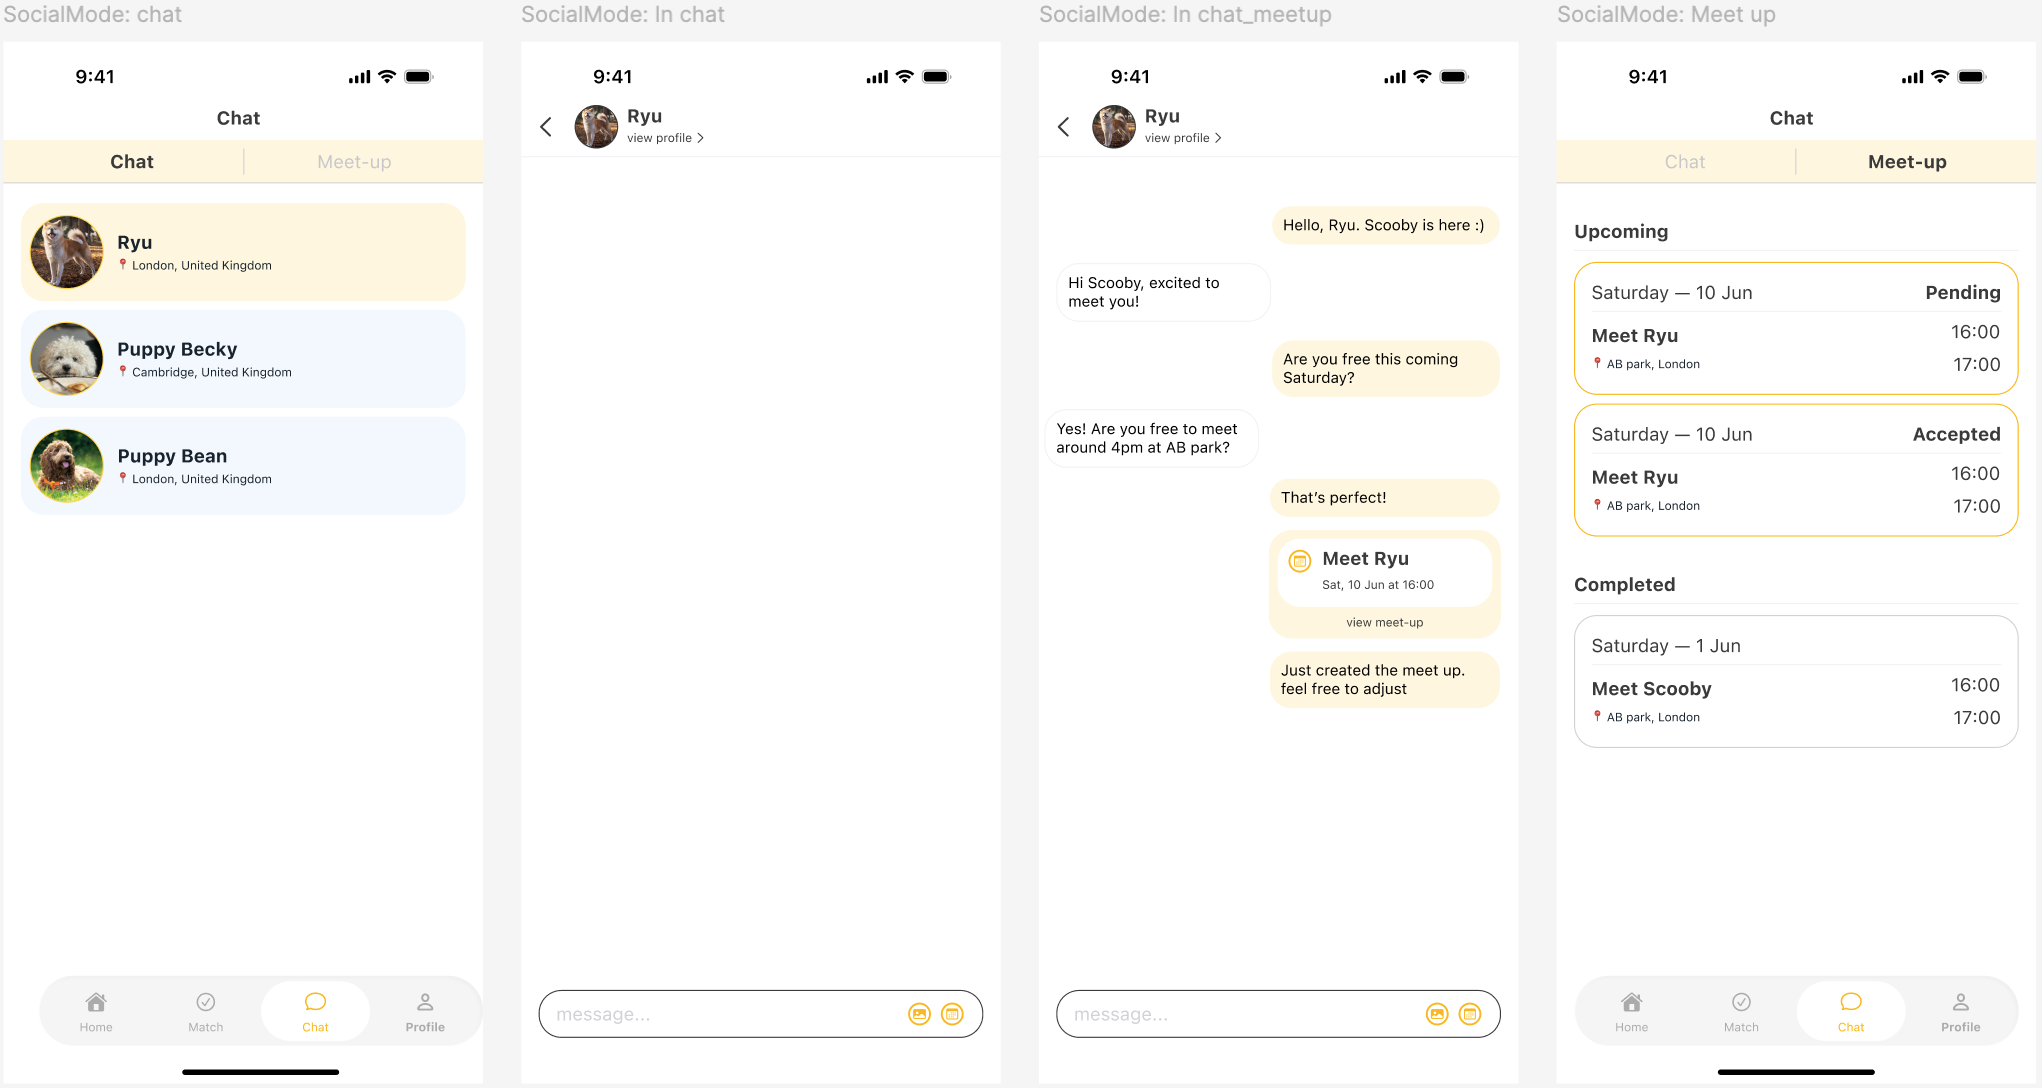
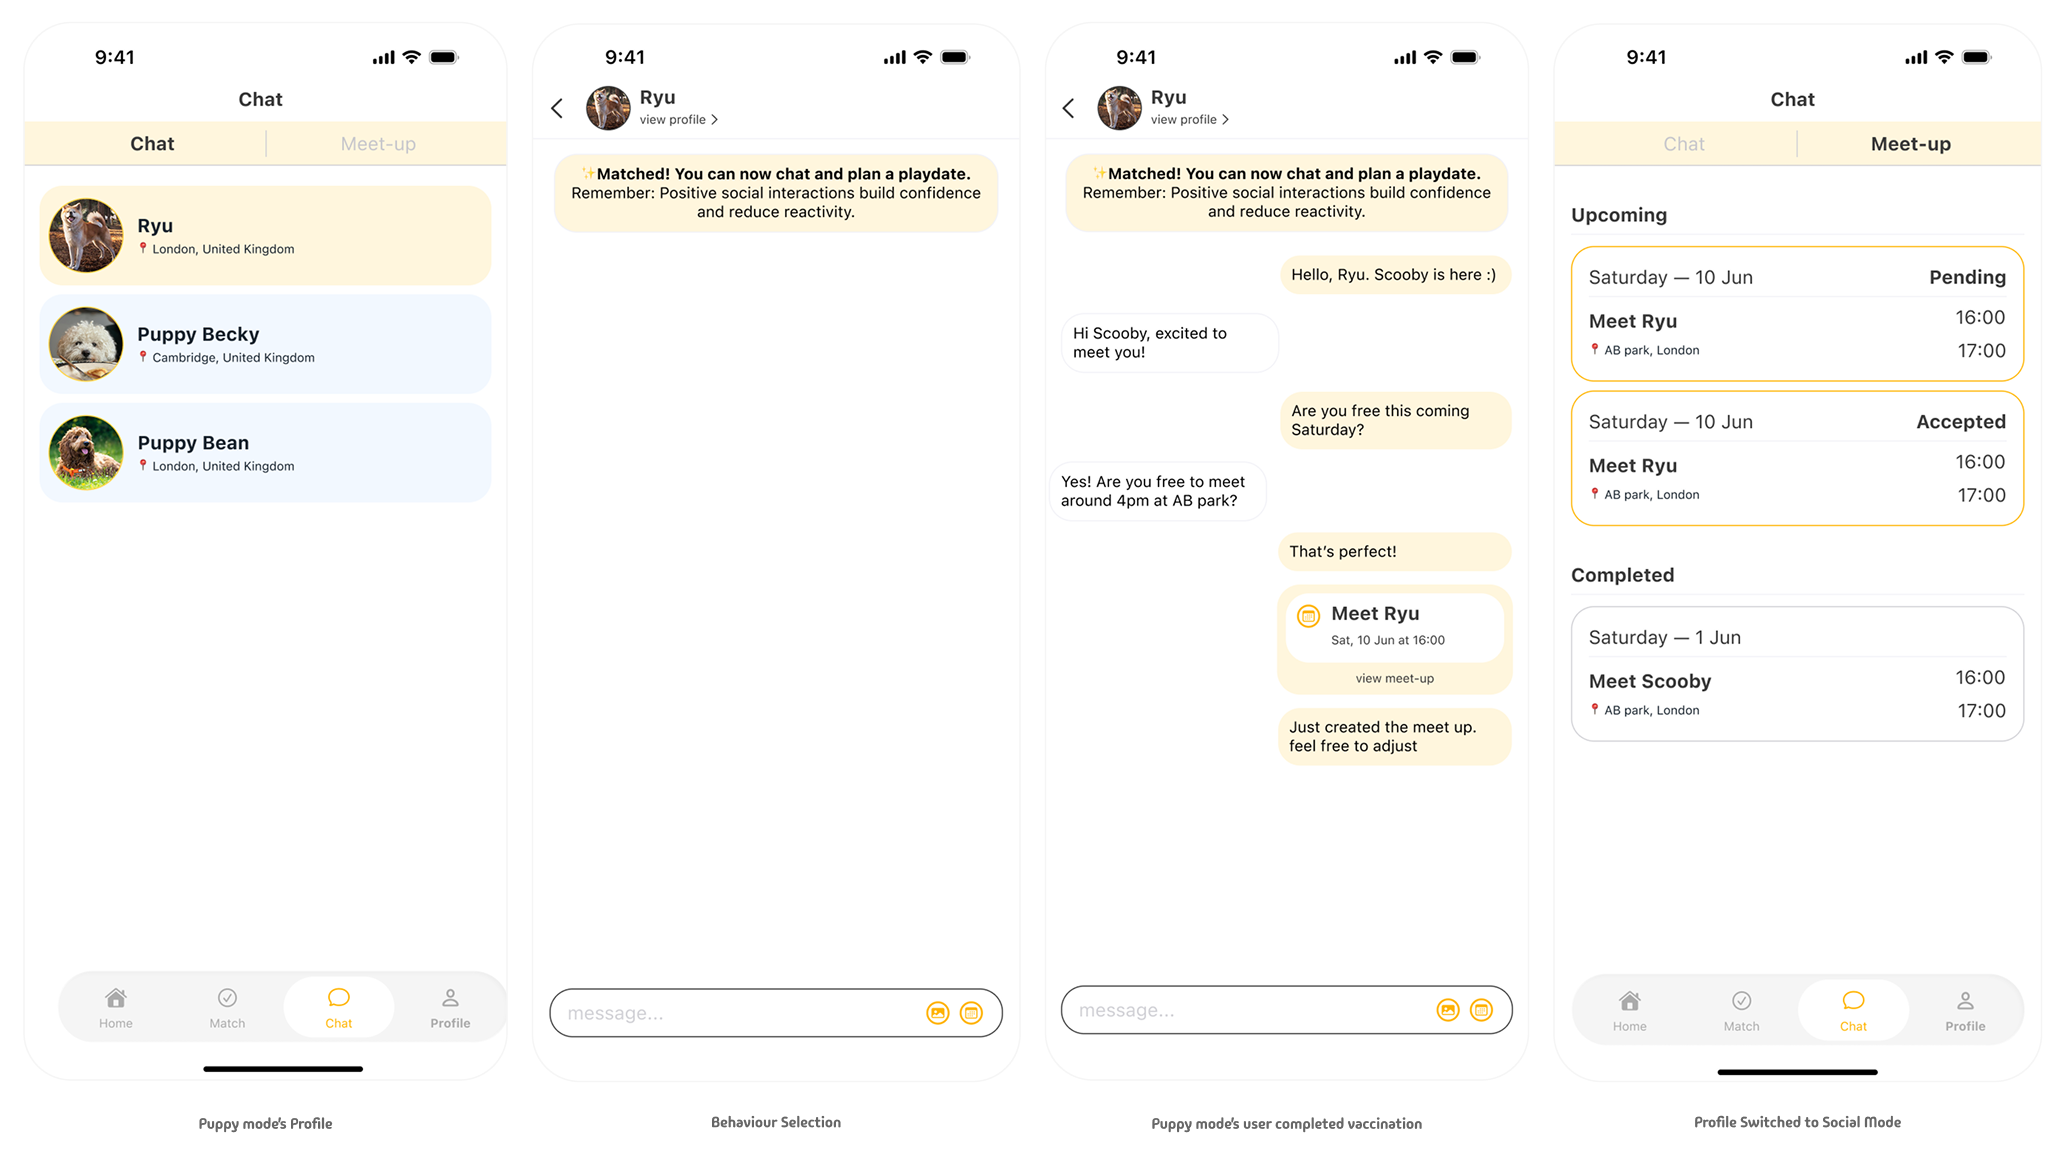
updated some images to match theme

diff --git a/src/pages/projects/Sopup.jsx b/src/pages/projects/Sopup.jsx
@@ -23,6 +23,7 @@ import sopupWireframeMeetup from "../../assets/images/designProcess/meetup.png";
 import sopupMode from "../../assets/images/designProcess/mode.png";
 import sopupReview from "../../assets/images/designProcess/review.png";
 import sopupWireframeHomeRefined from "../../assets/images/designProcess/Homepage_refined.png";
+import sopupMoodSwitcher from "../../assets/images/designProcess/modeSwitcher.png";
 
 const SOPUP_HERO = {
   badge: "iOS Case Study",
@@ -103,7 +104,7 @@ const SOPUP_DESIGN_PROCESS = {
   wireframeSection: {
     title: "Wireframes, screen by screen",
     intro:
-      "Four core journeys were wireframed in sequence, each one carrying a specific design decision forward from the research. The earliest screens started as pencil-and-paper sketches, walked through in person with dog owners I know so feedback came before anything was committed to Figma. Only once those sketches held up did they get digitised for prototyping and usability testing.",
+      "Six core journeys were wireframed in sequence, each one carrying a specific design decision forward from the research. The earliest screens started as pencil-and-paper sketches, which I walked through in person with dog owners I know so feedback came before anything was committed to Figma. Only once those sketches held up did they get digitised for prototyping and usability testing.",
     items: [
       {
         tag: "Onboarding",
@@ -120,6 +121,12 @@ const SOPUP_DESIGN_PROCESS = {
         images: [{ src: sopupMode, alt: "Mode assignment wireframes" }],
       },
       {
+        tag: "Mode Switcher",
+        description:
+          "The mode switcher is only visible to Puppy Mode users, and it's disabled until the system validates the dates. This prevents users from bypassing the safety rules, and makes it clear that the app is enforcing them rather than leaving it up to the user. After the user's tapped the switcher, a modal explains why the mode changed and what that means for their dog's socialisation.",
+        images: [{ src: sopupMoodSwitcher, alt: "Mode switcher wireframes" }],
+      },
+      {
         tag: "Homepage & Filters",
         description:
           "Profile cards are colour-coded by mode (blue for Puppy, orange for Social), so compatibility is legible before a profile is even opened. The filter panel groups General (gender, health, neuter status) above Pet Behaviour (play style, environment), so users narrow by safety first, personality second.",
@@ -130,7 +137,7 @@ const SOPUP_DESIGN_PROCESS = {
       {
         tag: "Match Flow",
         description:
-          "Unlike other dog social apps, where anyone can drop into your inbox uninvited, SoPup requires both owners to accept before a single message is exchanged. Sending a request means writing a short personal note first, a deliberate friction point that discourages low-effort spam. Pending and Requested live in separate tabs so incoming and outgoing intent are never ambiguous.",
+          "SoPup was built so both paws and owners feel safe before a single message is exchanged, mutual agreement does the heavy lifting. Unlike other dog social apps, where anyone can drop into an inbox uninvited, both owners have to accept a match before any conversation starts. Sending a request means writing a short personal note first, a deliberate friction point that discourages low-effort spam. Pending and Requested live in separate tabs so incoming and outgoing intent are never ambiguous.",
         images: [{ src: sopupWireframeMatch, alt: "Match flow wireframes" }],
       },
       {
@@ -138,11 +145,11 @@ const SOPUP_DESIGN_PROCESS = {
         description:
           "Meet-up scheduling lives inside the chat as an embedded card rather than a separate flow, so proposing, accepting, and reviewing a playdate never breaks the conversation. If a Puppy Mode match hasn't cleared vaccinations, the app states that plainly in-thread instead of silently disabling the button.",
         images: [
-          { src: sopupWireframeChat, alt: "Chat and meet-up wireframes" },
-          {
+                    {
             src: sopupWireframeMeetup,
             alt: "Meet-up scheduling and mode-mismatch wireframes",
           },
+          { src: sopupWireframeChat, alt: "Chat and meet-up wireframes" },
         ],
       },
     ],
@@ -908,7 +915,7 @@ function Sopup() {
             icon: "figma",
             external: true,
           })),
-          
+
           { label: "✈ TestFlight", href: "https://testflight.apple.com/join/duM8Wv9Q", variant: "solid", external: true },
           
           { label: "GitHub →", href: "https://github.com/MpmookR/So_Pup/tree/main/So_Pup", variant: "outline-light", external: true },
